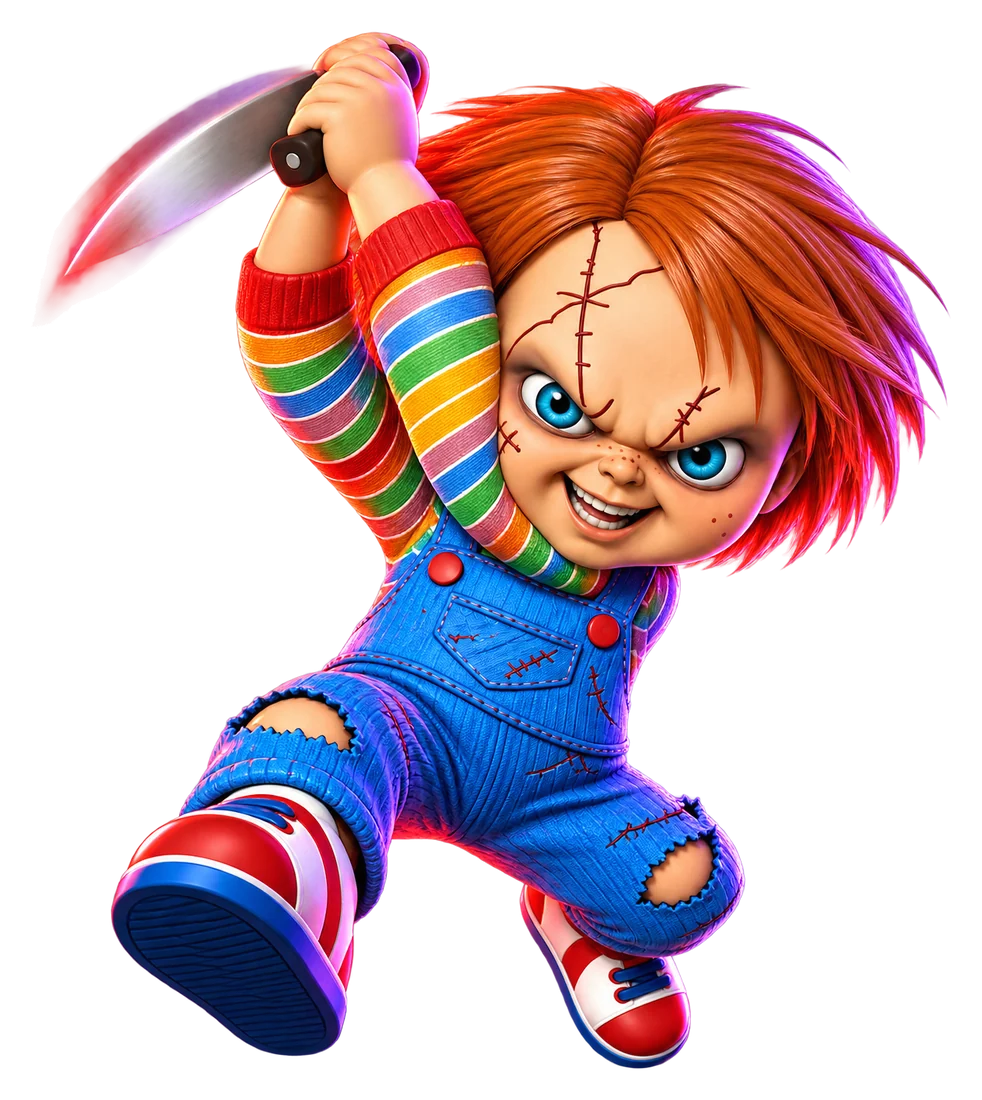
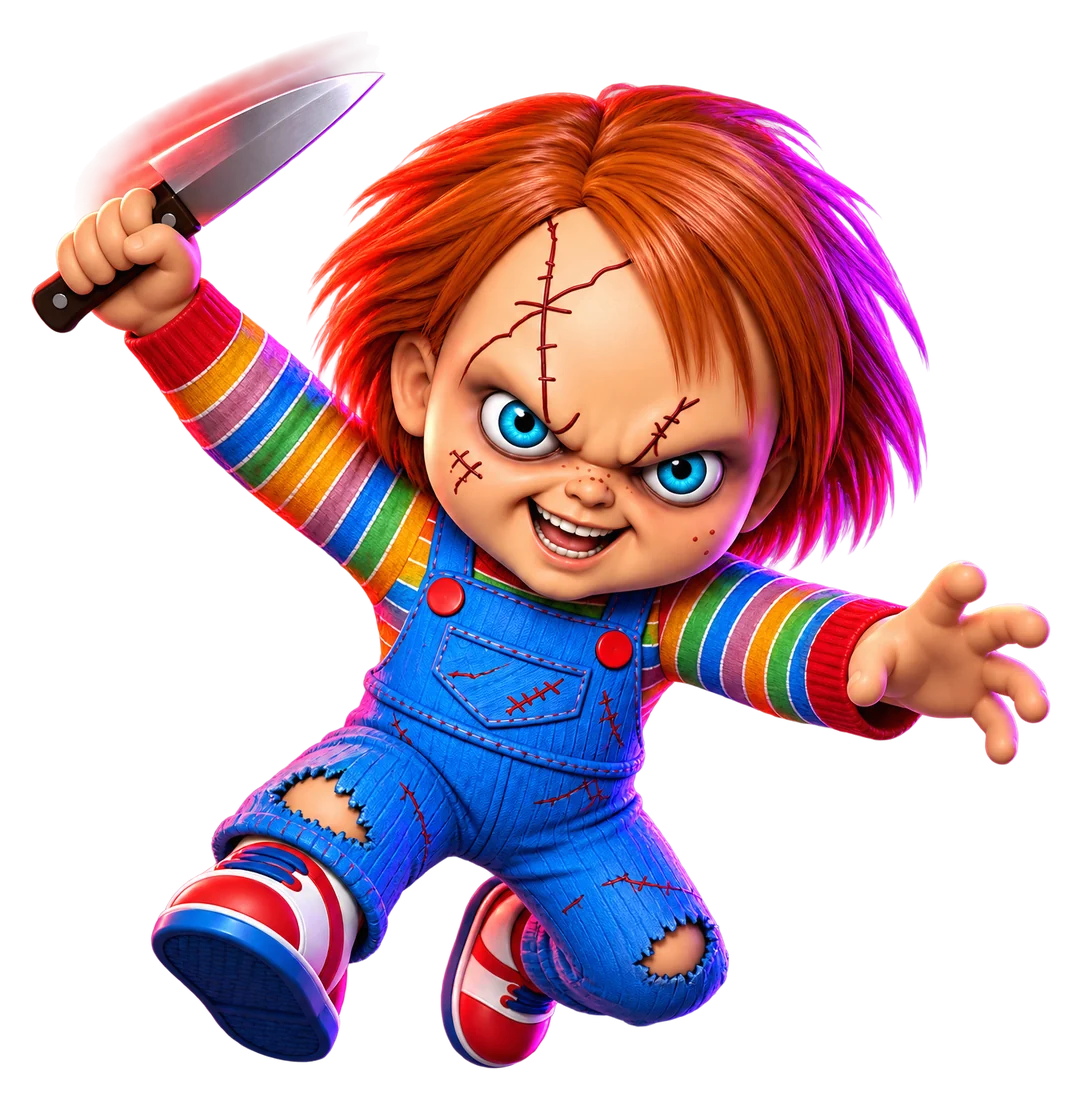
feat(site): the redone Chucky on the landing page
The new render (arms clear of his chin, a whole knife) replaces the old one in the hero. Deployed to
pets.superfun.games.

diff --git a/tools/finalize_site_art.py b/tools/finalize_site_art.py
@@ -18,7 +18,7 @@ from finalize_food import ALPHA_FLOOR, MARGIN  # noqa: E402
 ROOT = Path(__file__).resolve().parents[1]
 SRC = ROOT / "art-work/site"
 OUT = ROOT / "site/art"
-PICKS = {"backdrop": 2, "jason": 1, "freddy": 1, "pinhead": 2, "ghostface": 1, "chucky": 1, "michael": 1, "leatherface": 1}
+PICKS = {"backdrop": 2, "jason": 1, "freddy": 1, "pinhead": 2, "ghostface": 1, "chucky": 2, "michael": 1, "leatherface": 1}
 KILLER_SIZE = 1100
 BACKDROP_WIDTH = 2560
 
